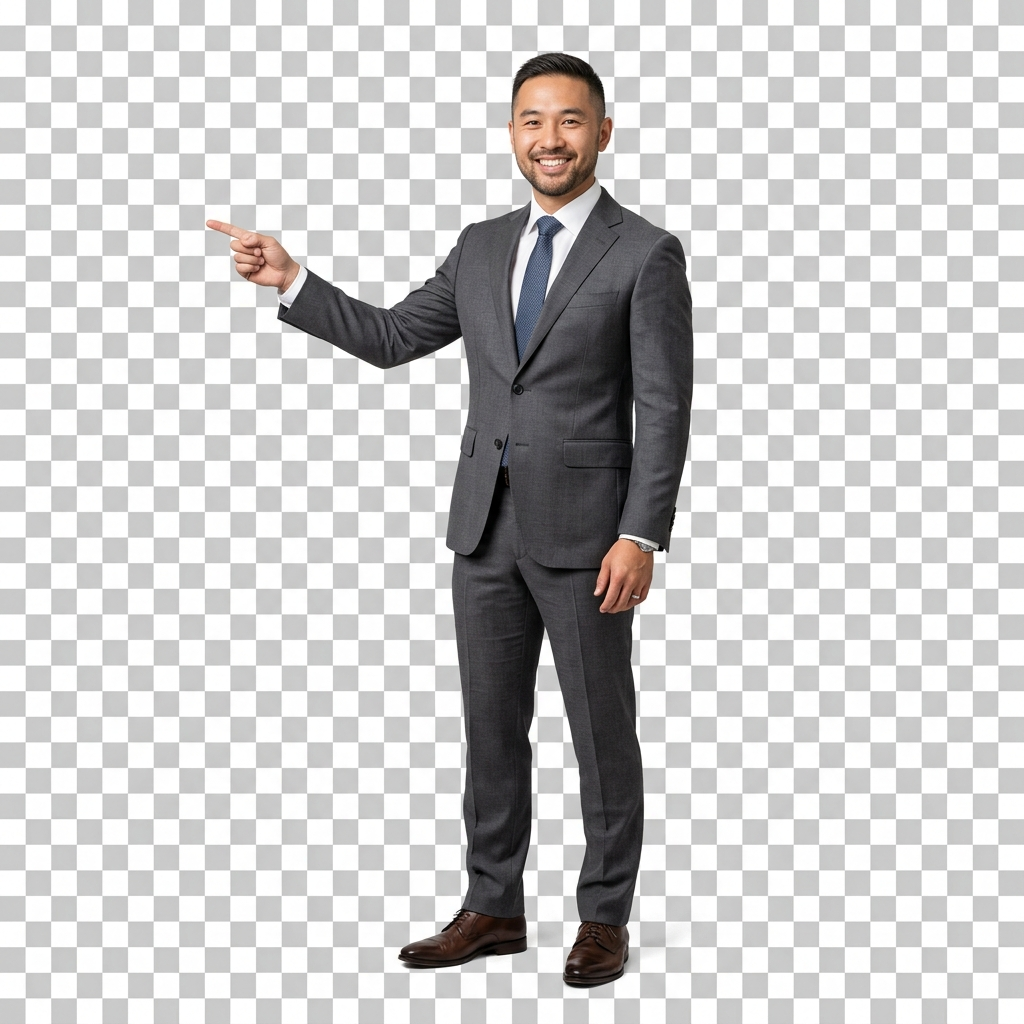
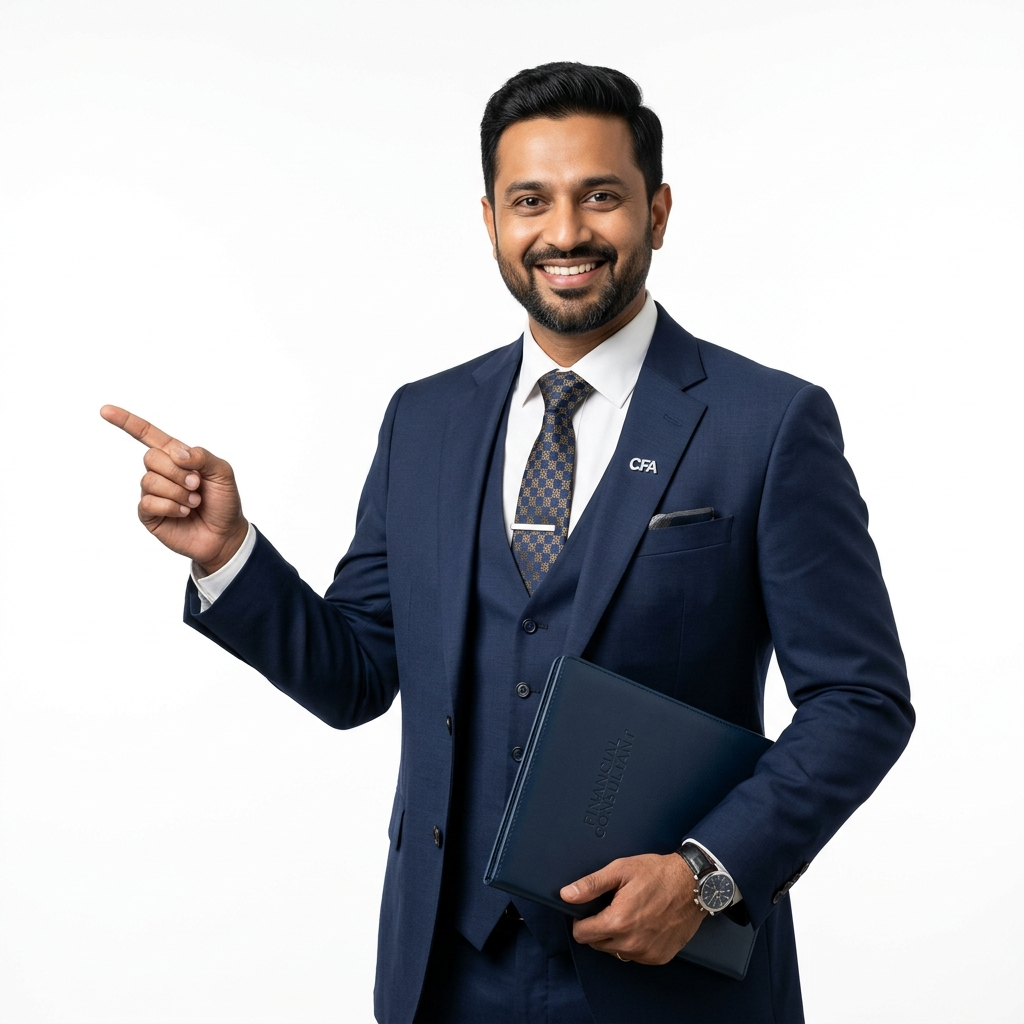
updated

diff --git a/assets/css/hero.css b/assets/css/hero.css
@@ -223,63 +223,51 @@
     to { opacity: 1; transform: translateX(0); }
 }
 
-/* Ultra-Mobile Responsive Refinements */
-@media (max-width: 1200px) {
-    .hero-content h1 { font-size: 2.8rem; }
-    .hero-image img { max-height: 400px; }
-}
-
-@media (max-width: 992px) {
-    .hero-slide { padding: 0 5%; }
-    .hero-content h1 { font-size: 2.4rem; }
-    .hero-image img { max-height: 350px; }
-}
-
+/* Ultra-Mobile Premium Overhaul */
 @media (max-width: 768px) {
+    .hero-slider-section { margin-top: 60px; } /* Tighter header offset */
     .slider-container { height: auto; min-height: 520px; }
-    .hero-slide { padding: 85px 15px 45px; align-items: center; } /* Tighter and more centered */
-    .hero-container { flex-direction: column; text-align: center; justify-content: center; gap: 15px; }
-    .hero-content { order: 1; width: 100%; }
+    .hero-slide { padding: 60px 20px 40px; align-items: center; } /* Reduced top padding */
+    .hero-container { flex-direction: column; text-align: center; gap: 15px; }
+    .hero-content { order: 1; flex: none; width: 100%; }
     .hero-content h1 { 
-        font-size: clamp(1.7rem, 9vw, 2.3rem); 
+        font-size: clamp(1.7rem, 9vw, 2.2rem); 
         margin-bottom: 12px;
         line-height: 1.1;
     }
     .hero-content p { 
         margin: 0 auto 20px; 
         font-size: 1rem; 
-        line-height: 1.45;
-        max-width: 95%;
+        line-height: 1.4;
+        max-width: 90%;
         opacity: 0.9;
     }
-    .hero-image { order: 2; width: 100%; height: auto; padding-top: 5px; }
-    .hero-image img { max-height: 230px; }
-    .hero-actions { justify-content: center; width: 100%; padding: 0 5px; }
-    .btn-plans { 
+    .hero-image { 
+        order: 2; 
         width: 100%; 
-        padding: 14px 15px; 
-        font-size: 1rem;
+        height: auto; 
+        padding-top: 0; 
         justify-content: center;
-        box-shadow: 0 8px 20px rgba(0,0,0,0.15);
+        display: flex;
     }
-    .slider-indicators { 
-        bottom: 15px; 
-        left: 50%; 
-        transform: translateX(-50%); 
-        gap: 10px;
+    .hero-image img { 
+        max-height: 240px; 
+        width: auto;
+        object-fit: contain;
+        /* Professional masking for white-background images if needed */
+        /* filter: drop-shadow(0 15px 30px rgba(0,0,0,0.1)); */
     }
-    .dot { width: 10px; height: 10px; }
-    .dot.active { width: 30px; }
+    .hero-actions { justify-content: center; width: 100%; }
+    .btn-plans { 
+        width: 90%; 
+        padding: 14px 20px; 
+        font-size: 1.05rem;
+    }
+    .slider-indicators { bottom: 15px; }
 }
 
 @media (max-width: 480px) {
     .hero-content h1 { font-size: clamp(1.5rem, 8vw, 1.8rem); }
     .hero-image img { max-height: 200px; }
-    .hero-slide { padding-top: 80px; }
-}
-
-@media (max-width: 360px) {
-    .hero-content h1 { font-size: 1.4rem; }
-    .hero-slide { padding-top: 75px; }
-    .hero-image img { max-height: 170px; }
+    .hero-slide { padding-top: 60px; }
 }

diff --git a/assets/css/about.css b/assets/css/about.css
@@ -154,34 +154,22 @@
     to { opacity: 1; transform: translateX(0); }
 }
 
-/* Responsive */
-@media (max-width: 1100px) {
-    .about-container {
-        grid-template-columns: 1fr;
-        gap: 40px;
-        text-align: center;
-    }
-
-    .about-content {
-        padding: 30px 20px;
-        height: auto;
-    }
-
-    .about-header-box h2 {
-        font-size: 2.4rem;
-    }
-
-    .about-visual::before, .about-visual::after {
-        display: none;
-    }
+/* Responsive Polish */
+@media (max-width: 992px) {
+    .about-header-box { padding: 40px 5%; margin-bottom: 40px; }
+    .about-header-box h2 { font-size: 2.5rem; }
+    .about-container { grid-template-columns: 1fr; gap: 40px; text-align: center; }
+    .about-visual::before, .about-visual::after { display: none; }
 }
 
-@media (max-width: 600px) {
-    .about-section {
-        padding: 70px 7%;
-    }
+@media (max-width: 768px) {
+    .about-section { padding: 40px 0; }
+    .about-header-box h2 { font-size: 2.2rem; }
+    .about-content { padding: 30px 5%; border-left: none; border-right: none; border-radius: 0; }
+    .about-features { align-items: center; }
+}
 
-    .about-content h2 {
-        font-size: 2rem;
-    }
+@media (max-width: 480px) {
+    .about-header-box h2 { font-size: 1.8rem; }
+    .about-content p { font-size: 1.05rem; }
 }

diff --git a/assets/css/service_highlights.css b/assets/css/service_highlights.css
@@ -56,19 +56,19 @@
     max-width: 250px;
 }
 
-/* Responsive Grid Breakpoints */
-@media screen and (max-width: 1100px) {
+/* Responsive Grid Polish */
+@media screen and (max-width: 992px) {
     .highlights-container {
         grid-template-columns: repeat(2, 1fr);
     }
 }
 
-@media screen and (max-width: 600px) {
+@media screen and (max-width: 576px) {
     .highlights-container {
         grid-template-columns: 1fr;
     }
     .highlight-card {
-        padding: 50px 20px;
+        padding: 40px 20px;
         min-height: auto;
     }
 }
